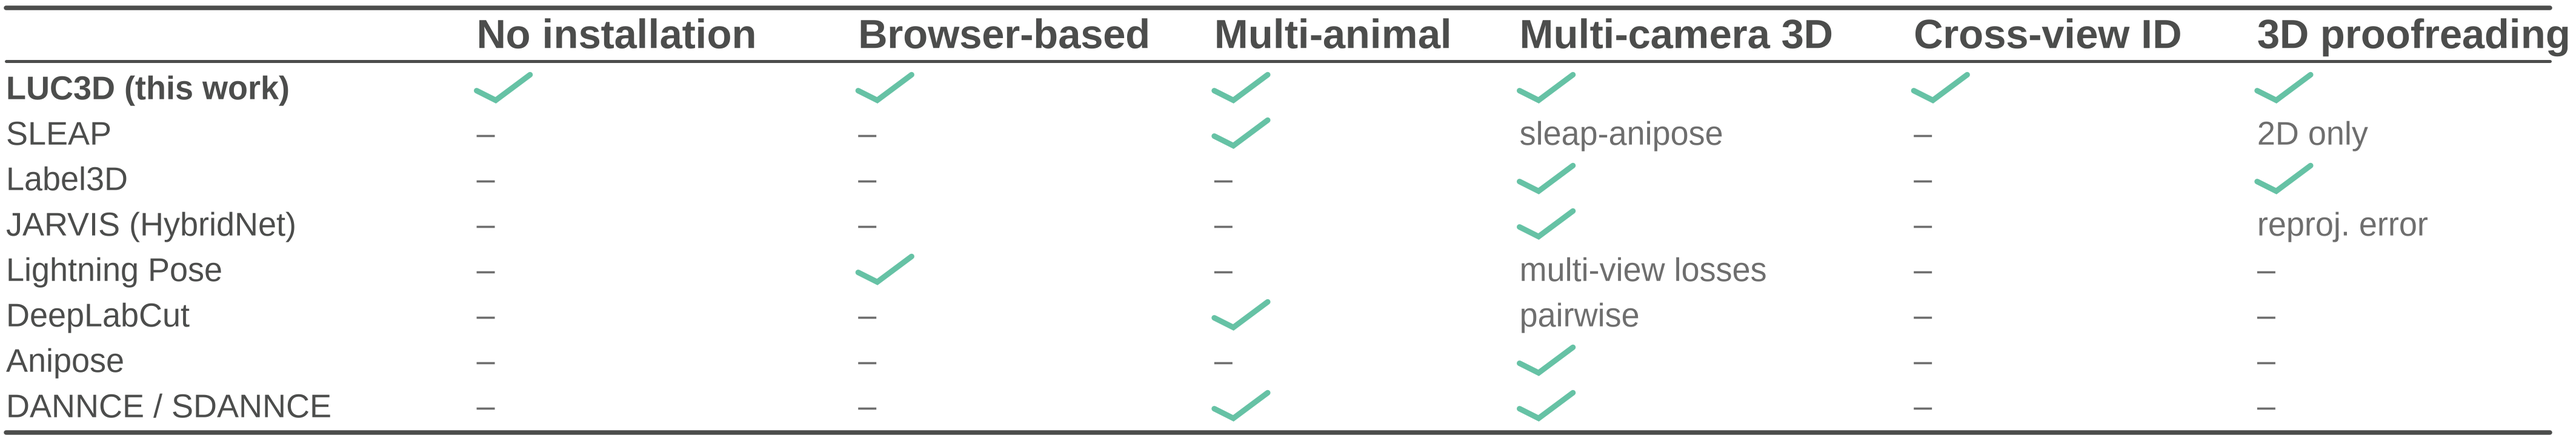
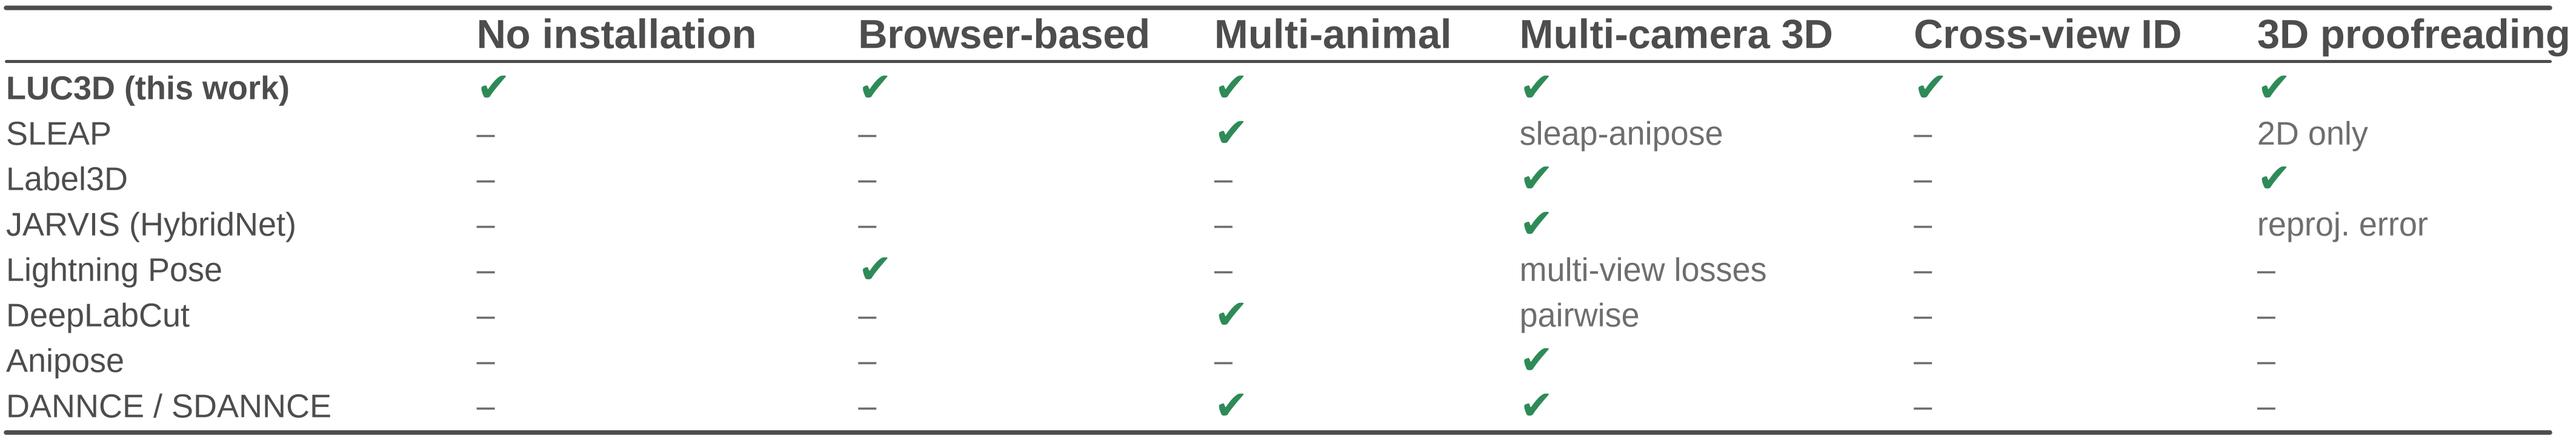
figs: Fig 1d gets real heavy check marks, in green
U+2714 set as a character rather than the two strokes that were drawn there.
The strokes existed for a reason: Liberation Sans, the Arial substitute on
this box, has no glyph for U+2713 or U+2714 and matplotlib renders a tofu box
without saying so. DejaVu Sans does have it, so the mark is set in DejaVu and
the family is checked at run time -- the panel now refuses to build rather
than ship a page of tofu, which is the failure that produced the drawn
version originally. Verified in the PDF: 15 spans, font DejaVuSans, colour
#2e8b57, and the font is embedded.

Green is #2E8B57, 4.25:1 on white. Set2's own green is 1.67:1 and the teal
the mark used to be is 2.14:1, both illegible at 6.5 pt. It is deliberately
not the ENTITY green, which means Anipose set-wide and is a row in this very
table.

diff --git a/figs/panels/fig1_04_tool_table.py b/figs/panels/fig1_04_tool_table.py
@@ -85,20 +85,48 @@ NOTE_BELOW_LAST_PT = 11.08      # 1.05 u
 HEAD_GAP_PT = 10.55
 
 
-def tick(ax, x, y, color=TEAL, s=0.0075, lw=1.1):
-    """A checkmark drawn as two strokes.
+#: The affirmative mark. U+2714 HEAVY CHECK MARK, set in DejaVu Sans and NOT in the
+#: panel's own family: Liberation Sans (the Arial substitute here) has no glyph for it,
+#: nor for U+2713, and matplotlib renders a tofu box in every affirmative cell without
+#: saying so. That is why this used to be drawn as two strokes. Mixing one family in for
+#: one symbol is the smaller cost -- a checkmark is read as a mark, not as type -- and
+#: it is checked at import rather than trusted, because a silent tofu is exactly the
+#: failure that put the drawn version here in the first place.
+TICK_CHAR = "\u2714"
+TICK_FONT = "DejaVu Sans"
 
-    NOT the character U+2713: Liberation Sans (the Arial substitute) has no glyph
-    for it and matplotlib silently rendered a tofu box in every affirmative cell.
-    Drawing it also keeps the mark on the same stroke weight as the rules.
-    """
-    down, up = TICK_DOWN_PT / ROW_PITCH_PT, TICK_UP_PT / ROW_PITCH_PT
-    ax.plot([x, x + s, x + 2.8 * s], [y, y - down, y + up],
-            color=color, lw=lw, solid_capstyle="round",
-            solid_joinstyle="miter", clip_on=False)
+#: A green dark enough to read at 6.5 pt. Set2's own green is 1.67:1 on white and the
+#: teal this mark used to be is 2.14:1, both below any legibility floor; this is 4.25:1.
+#: It is deliberately NOT the ENTITY green, which means Anipose set-wide and appears as
+#: a row in this very table.
+TICK_GREEN = "#2E8B57"
+
+
+def _tick_font_has_glyph():
+    """Refuse to ship a tofu box. Checked once, at import."""
+    from matplotlib import font_manager as fm
+    try:
+        from fontTools.ttLib import TTFont
+    except ImportError:
+        return True                       # cannot check; the render is inspected anyway
+    path = fm.findfont(fm.FontProperties(family=TICK_FONT), fallback_to_default=False)
+    f = TTFont(path, fontNumber=0)
+    return any(ord(TICK_CHAR) in tbl.cmap for tbl in f["cmap"].tables)
+
+
+def tick(ax, x, y, color=TICK_GREEN, size=8.0):
+    """The affirmative cell mark: a heavy check, set as a character."""
+    ax.text(x, y, TICK_CHAR, color=color, fontsize=size, fontfamily=TICK_FONT,
+            ha="left", va="center", clip_on=False)
 
 
 def main():
+    if not _tick_font_has_glyph():
+        raise SystemExit(
+            f"{TICK_FONT} has no glyph for U+{ord(TICK_CHAR):04X}; matplotlib would "
+            f"render a tofu box in every affirmative cell. Install a font that has it "
+            f"or restore the two-stroke drawn tick (see git history).")
+
     use()
     deposit(pd.DataFrame(TOOLS, columns=COLS), 1, "fig1d_tool_table.csv")
 
